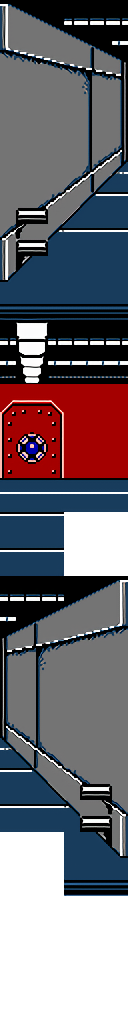
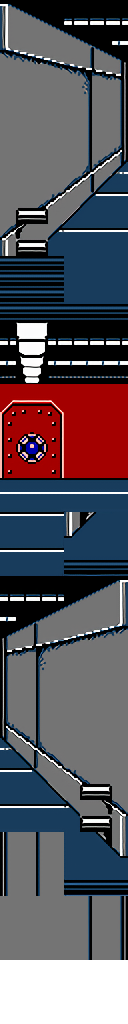
Level 2 colision fix

Changed region(s): [[0.0, 0.8125, 1.0, 0.9375], [0.5, 0.5, 1.0, 0.5625], [0.0, 0.25, 0.5, 0.3125]]

diff --git a/Contra2D/Contra2D/source/Game.cpp b/Contra2D/Contra2D/source/Game.cpp
@@ -8,7 +8,7 @@ void Game::init()
 	bPlay = true;
 	glClearColor(0.0f, 0.0f, 0.0f, 1.0f);
 	scene = new Scene;
-	scene->init(0); //MUST BE 0
+	scene->init(2); //MUST BE 0
 }
 
 void Game::loadLevel(int level)
